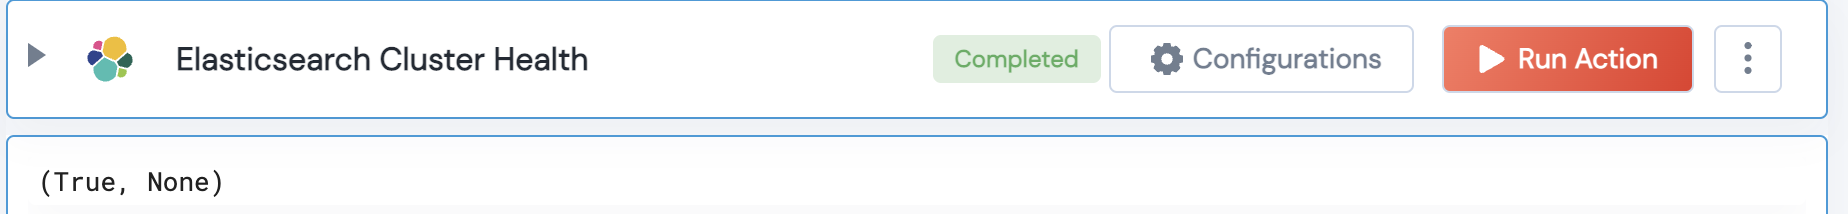
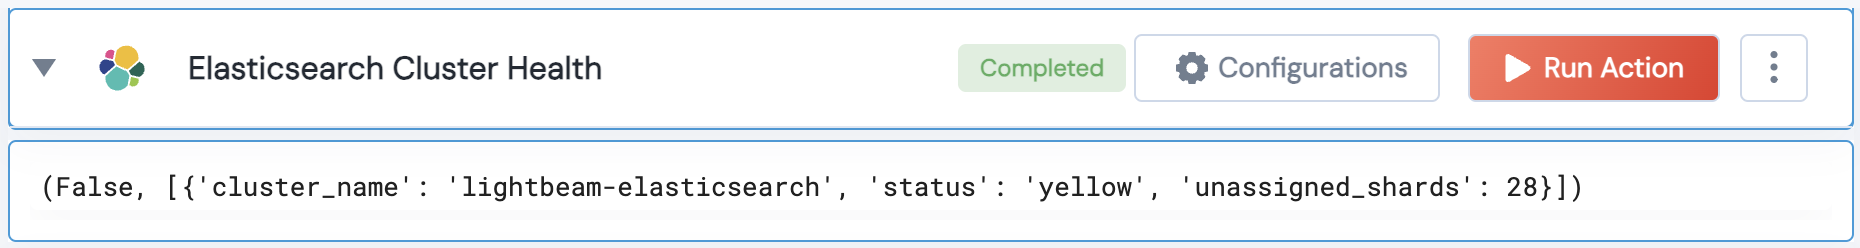
Update ES actions to checks

diff --git a/ElasticSearch/legos/elasticsearch_check_health_status/elasticsearch_check_health_status.py b/ElasticSearch/legos/elasticsearch_check_health_status/elasticsearch_check_health_status.py
@@ -2,12 +2,8 @@
 # Copyright (c) 2021 unSkript, Inc
 # All rights reserved.
 ##
-import subprocess
-import pprint
 from pydantic import BaseModel, Field
-from typing import Dict, Tuple
-from subprocess import PIPE
-import json
+from typing import Tuple
 
 
 class InputSchema(BaseModel):
@@ -25,18 +21,36 @@ def elasticsearch_check_health_status(handle) -> Tuple:
             :type handle: object
             :param handle: Object returned from Task Validate
 
-            :rtype: Result Dict of result
+            :rtype: Result Tuple of result
     """
     result = []
     cluster_health ={}
-    output = handle.web_request("/_cluster/health?pretty",  # Path
-                                "GET",                      # Method
-                                None)                       # Data
-    
+    output = handle.web_request("/_cluster/health?pretty", "GET", None)
+
     if output['status'] != 'green':
-        cluster_health[output['cluster_name']] = output['status'] 
+        cluster_health['cluster_name'] = output['cluster_name']
+        cluster_health['status'] = output['status']
+
+        # Check for unassigned shards
+        if output['unassigned_shards'] > 0:
+            cluster_health['unassigned_shards'] = output['unassigned_shards']
+
+        # Check for delayed unassigned shards
+        if output['delayed_unassigned_shards'] > 0:
+            cluster_health['delayed_unassigned_shards'] = output['delayed_unassigned_shards']
+
+        # Check for any initializing or relocating shards
+        if output['initializing_shards'] > 0 or output['relocating_shards'] > 0:
+            cluster_health['initializing_shards'] = output['initializing_shards']
+            cluster_health['relocating_shards'] = output['relocating_shards']
+
+        # Check for the number of nodes
+        if output['number_of_nodes'] != output['number_of_data_nodes']:
+            cluster_health['number_of_nodes'] = output['number_of_nodes']
+            cluster_health['number_of_data_nodes'] = output['number_of_data_nodes']
+
         result.append(cluster_health)
     if len(result) != 0:
-        return(False, result)
+        return (False, result)
     else:
-        return(True, None)
+        return (True, None)

diff --git a/ElasticSearch/legos/elasticsearch_get_index_health/elasticsearch_get_index_health.py b/ElasticSearch/legos/elasticsearch_get_index_health/elasticsearch_get_index_health.py
@@ -3,8 +3,7 @@
 # All rights reserved.
 ##
 from pydantic import BaseModel, Field
-from typing import List, Optional
-from tabulate import tabulate
+from typing import Tuple, Optional
 
 
 class InputSchema(BaseModel):
@@ -15,8 +14,10 @@ class InputSchema(BaseModel):
     )
 
 
-def elasticsearch_get_index_health_printer(outputs):
-    if outputs is None or len(outputs) == 0:
+def elasticsearch_get_index_health_printer(result):
+    success, outputs = result
+    if success or outputs is None or len(outputs) == 0:
+        print("No indices found with 'yellow' or 'red' health.")
         return
     for output in outputs:
         print(f"\nProcessing index: {output['index']}")
@@ -35,7 +36,8 @@ def elasticsearch_get_index_health_printer(outputs):
 
 
 
-def elasticsearch_get_index_health(handle, index_name="") -> List:
+
+def elasticsearch_get_index_health(handle, index_name="") -> Tuple:
     """
     elasticsearch_get_index_health checks the health of a given Elasticsearch index or all indices if no specific index is provided.
 
@@ -92,16 +94,16 @@ def elasticsearch_get_index_health(handle, index_name="") -> List:
             else:
                 settings = {}
             # Consolidate stats for the current index
-            index_stats = {
-                **health_output[0],
-                'settings': settings,
-                'stats': stats_output['_all']['total'],
-                'tasks': tasks_output['nodes']
-            }
-
-            all_indices_stats.append(index_stats)
-        return all_indices_stats
+            if health_output[0]['health'] in ['yellow', 'red']:
+                index_stats = {
+                    **health_output[0],
+                    'settings': settings,
+                    'stats': stats_output['_all']['total'],
+                    'tasks': tasks_output['nodes']
+                }
+                all_indices_stats.append(index_stats)
     except Exception as e:
         raise e
-
-
+    if len(all_indices_stats)!=0:
+        return (False, all_indices_stats)
+    return (True, None)
